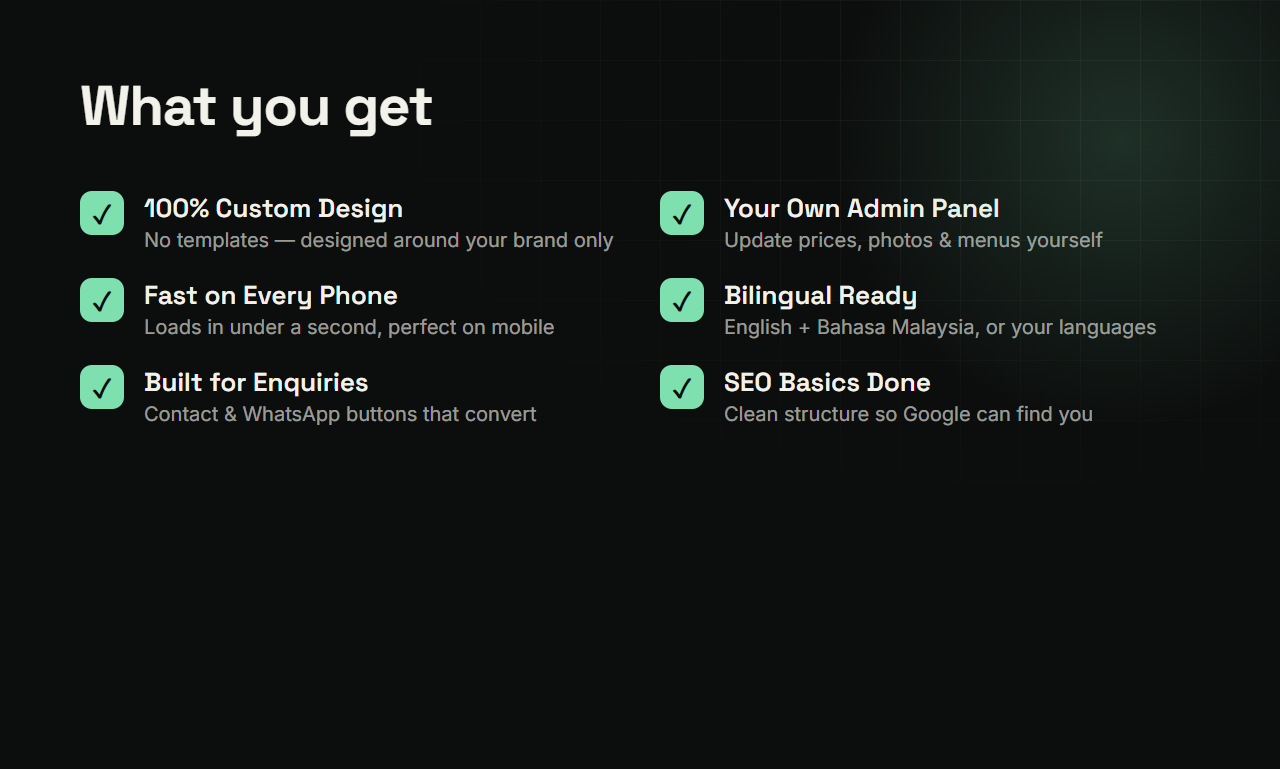
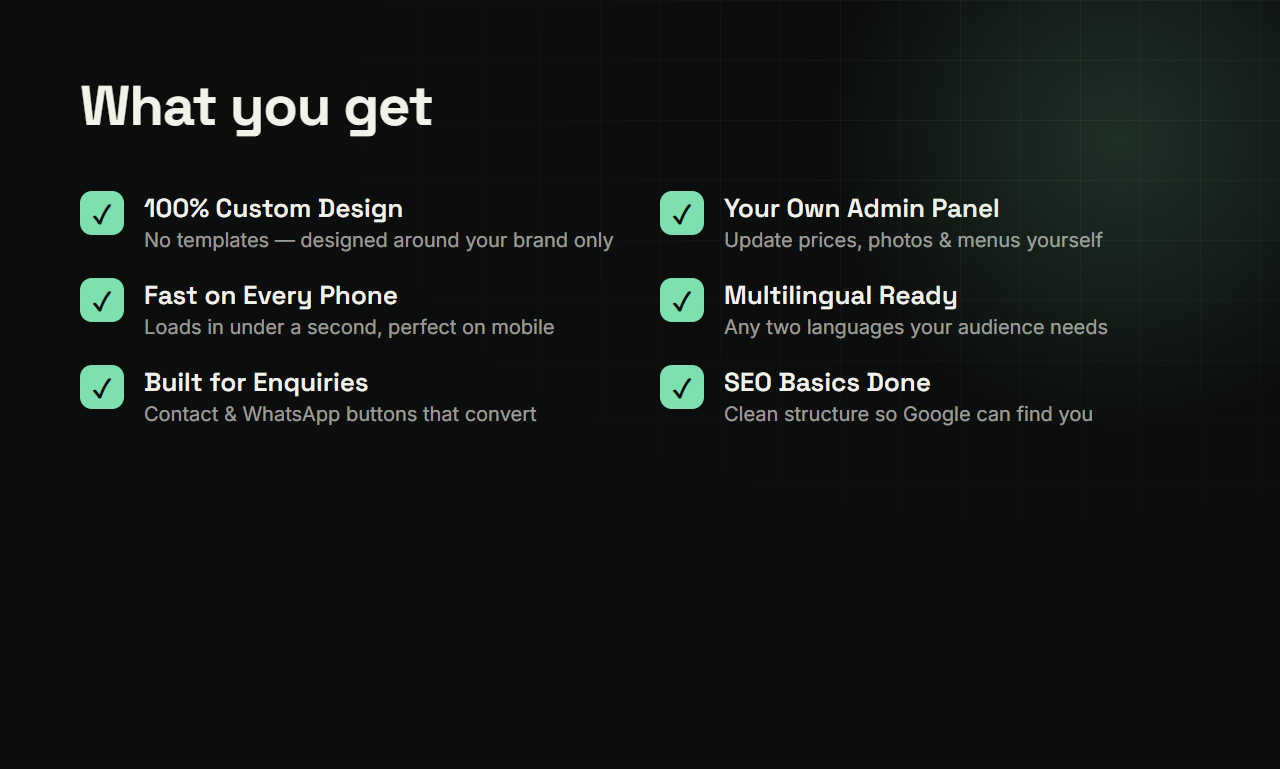
docs(sales): retune Fiverr gig for affordable-volume, global buyers
Basic 55 / Standard 145 / Premium 295; global copy (multilingual not Malaysia); added volume plan + capacity guidance; regenerated gig image.

Changed region(s): [[0.5625, 0.3745, 0.9062, 0.4369]]

diff --git a/sales/fiverr/gig-images.html b/sales/fiverr/gig-images.html
@@ -76,7 +76,7 @@
     <div class="item"><div class="check">✓</div><div><h3>100% Custom Design</h3><p>No templates — designed around your brand only</p></div></div>
     <div class="item"><div class="check">✓</div><div><h3>Your Own Admin Panel</h3><p>Update prices, photos &amp; menus yourself</p></div></div>
     <div class="item"><div class="check">✓</div><div><h3>Fast on Every Phone</h3><p>Loads in under a second, perfect on mobile</p></div></div>
-    <div class="item"><div class="check">✓</div><div><h3>Bilingual Ready</h3><p>English + Bahasa Malaysia, or your languages</p></div></div>
+    <div class="item"><div class="check">✓</div><div><h3>Multilingual Ready</h3><p>Any two languages your audience needs</p></div></div>
     <div class="item"><div class="check">✓</div><div><h3>Built for Enquiries</h3><p>Contact &amp; WhatsApp buttons that convert</p></div></div>
     <div class="item"><div class="check">✓</div><div><h3>SEO Basics Done</h3><p>Clean structure so Google can find you</p></div></div>
   </div>

diff --git a/sales/FIVERR-GIG-KIT.md b/sales/FIVERR-GIG-KIT.md
@@ -45,32 +45,32 @@ landing page
 
 ### PACKAGES
 
-> Prices are in USD (reaches the most buyers). Fiverr takes **20%**, so your net is shown in brackets. These are set so your take-home roughly matches your Zed Studio rates. You can switch the gig to MYR in settings, but USD is recommended.
+> Prices are in USD (reaches the most global buyers — Fiverr is your international channel). Fiverr takes **20%**, so your net is shown in brackets. **Strategy: affordable, high volume** — priced to win lots of orders and beat premium sellers, while still charging more than the $30 template crowd because your work is custom.
 
 | | **BASIC** — Starter Site | **STANDARD** — Business Site | **PREMIUM** — Custom System |
 |---|---|---|---|
 | **Package name** | Landing Page | Business Website | Custom + Admin Panel |
-| **Price** | **US$150** (net ≈ $120) | **US$350** (net ≈ $280) | **US$750** (net ≈ $600) |
-| **Short description** *(max ~100 char)* | 1-page custom-designed site to turn visitors into enquiries. | Up to 6 custom pages — the complete online presence for your business. | Website + database + admin dashboard you control yourself. |
-| **Delivery time** | 5 days | 10 days | 21 days |
+| **Price** | **US$55** (net ≈ $44) | **US$145** (net ≈ $116) | **US$295** (net ≈ $236) |
+| **Short description** *(max ~100 char)* | 1-page custom-designed site to turn visitors into customers. | Up to 5 custom pages — the complete online presence for your business. | Website + database + admin dashboard you control yourself. |
+| **Delivery time** | 4 days | 7 days | 14 days |
 | **Revisions** | 2 | 3 | 5 |
-| **Pages / sections** | 1 | 6 | 8 |
+| **Pages / sections** | 1 | 5 | 8 |
 | Responsive design | ✓ | ✓ | ✓ |
 | Content upload | ✓ | ✓ | ✓ |
 | Contact form / WhatsApp button | ✓ | ✓ | ✓ |
 | Speed optimized | ✓ | ✓ | ✓ |
 | SEO basics (meta, structure) | ✓ | ✓ | ✓ |
-| Bilingual (English + Bahasa) | — | ✓ | ✓ |
+| Multilingual (any 2 languages) | — | ✓ | ✓ |
 | E-commerce / booking / rewards | — | — | ✓ |
 | Database + admin dashboard | — | — | ✓ |
 
-### Gig Extras  *(add-ons buyers can tick — extra income)*
-- **Extra fast delivery** — Basic +$40 (2 days) · Standard +$80 (5 days)
-- **Additional page** — +$45 each
-- **Bilingual add-on** (for Basic) — +$60
-- **1 month care & updates** — +$40 (backups, small changes, monitoring)
-- **Custom domain setup** — +$50 (you register in the buyer's name)
-- **Extra revision** — +$25
+### Gig Extras  *(add-ons buyers can tick — extra income on top of the low base price)*
+- **Extra fast delivery** — Basic +$25 (2 days) · Standard +$50 (4 days)
+- **Additional page** — +$25 each
+- **Multilingual add-on** (for Basic) — +$35
+- **1 month care & updates** — +$30 (backups, small changes, monitoring)
+- **Custom domain setup** — +$40 (you register in the buyer's name)
+- **Extra revision** — +$15
 
 ---
 
@@ -87,12 +87,13 @@ builders, no recycled themes.
 • Loads in under a second, perfect on mobile
 • Your own admin dashboard (Business & Custom) — update prices, photos and menus
   yourself, no developer needed
-• Bilingual ready (English + Bahasa Malaysia, or your languages)
+• Multilingual ready — any two languages your audience needs
 • SEO basics done right so Google can find you
 
 ★ WHAT I CAN BUILD
-Cafés & restaurants (menu + loyalty), clinics & barbers (booking), gyms, homestays,
-online shops, agencies, and more — each designed for how YOUR customers actually buy.
+Cafés & restaurants (menu + loyalty), clinics & salons (booking), gyms, hotels,
+online shops, agencies, portfolios and more — each designed for how YOUR customers
+actually buy.
 
 ★ SEE REAL WORK
 Check my gig gallery — every screenshot is a complete working website with a live
@@ -165,16 +166,22 @@ for a review — it means a lot to a growing studio. Thank you!
 
 ---
 
+## YOUR PLAN — affordable volume (the numbers)
+Goal: **RM 500–1,500/month.** Capacity: **2–3 sites/week (~8–12/month).** Entry price $55.
+
+- One Basic sale nets ≈ $44 ≈ **RM 180**. So **3 basic sites = ~RM 540**, **8 = ~RM 1,440** — your goal is hit at well under full capacity. Any Standard/Premium or extras push it higher fast.
+- **You do NOT need to overload.** Cap yourself at ~2–3 orders in progress at once. Fiverr punishes late delivery and cancellations harder than anything — one blown deadline costs more than three extra orders earn. Quality + on-time = reviews = ranking = more orders. That's the real volume engine.
+- **First 3–5 orders = reviews, not profit.** Overdeliver on them (throw in an extra section free, deliver a day early). Five 5-star reviews changes everything; after that your $55 gig converts on its own.
+- Turn on Fiverr's "Out of Office" if you're at capacity — better to pause than deliver late.
+
 ## Ranking tips (Fiverr Success Score)
 - Reply to every message in under 1 hour (turn on Fiverr mobile app notifications)
 - Never cancel an order if you can avoid it — cancellations hurt most
 - Deliver a little early when you can
 - Ask every happy buyer for a review (politely, in the delivery message)
-- Your first few orders matter most — consider pricing Basic slightly lower for the
-  first 2–3 reviews, then raise it. Reviews are everything on Fiverr.
 
 ## Later: two more gigs to add (same account)
-Once this ranks, add separate gigs (more gigs = more search coverage):
+Once this ranks, add separate gigs (more gigs = more search coverage, more volume):
 - "I will redesign your outdated website into a modern fast one" (Redesign)
-- "I will build a bilingual English + Malay website for your business" (targets local buyers)
+- "I will build a fast custom landing page that converts" (targets a hot search term)
 I can write these kits when you're ready.
